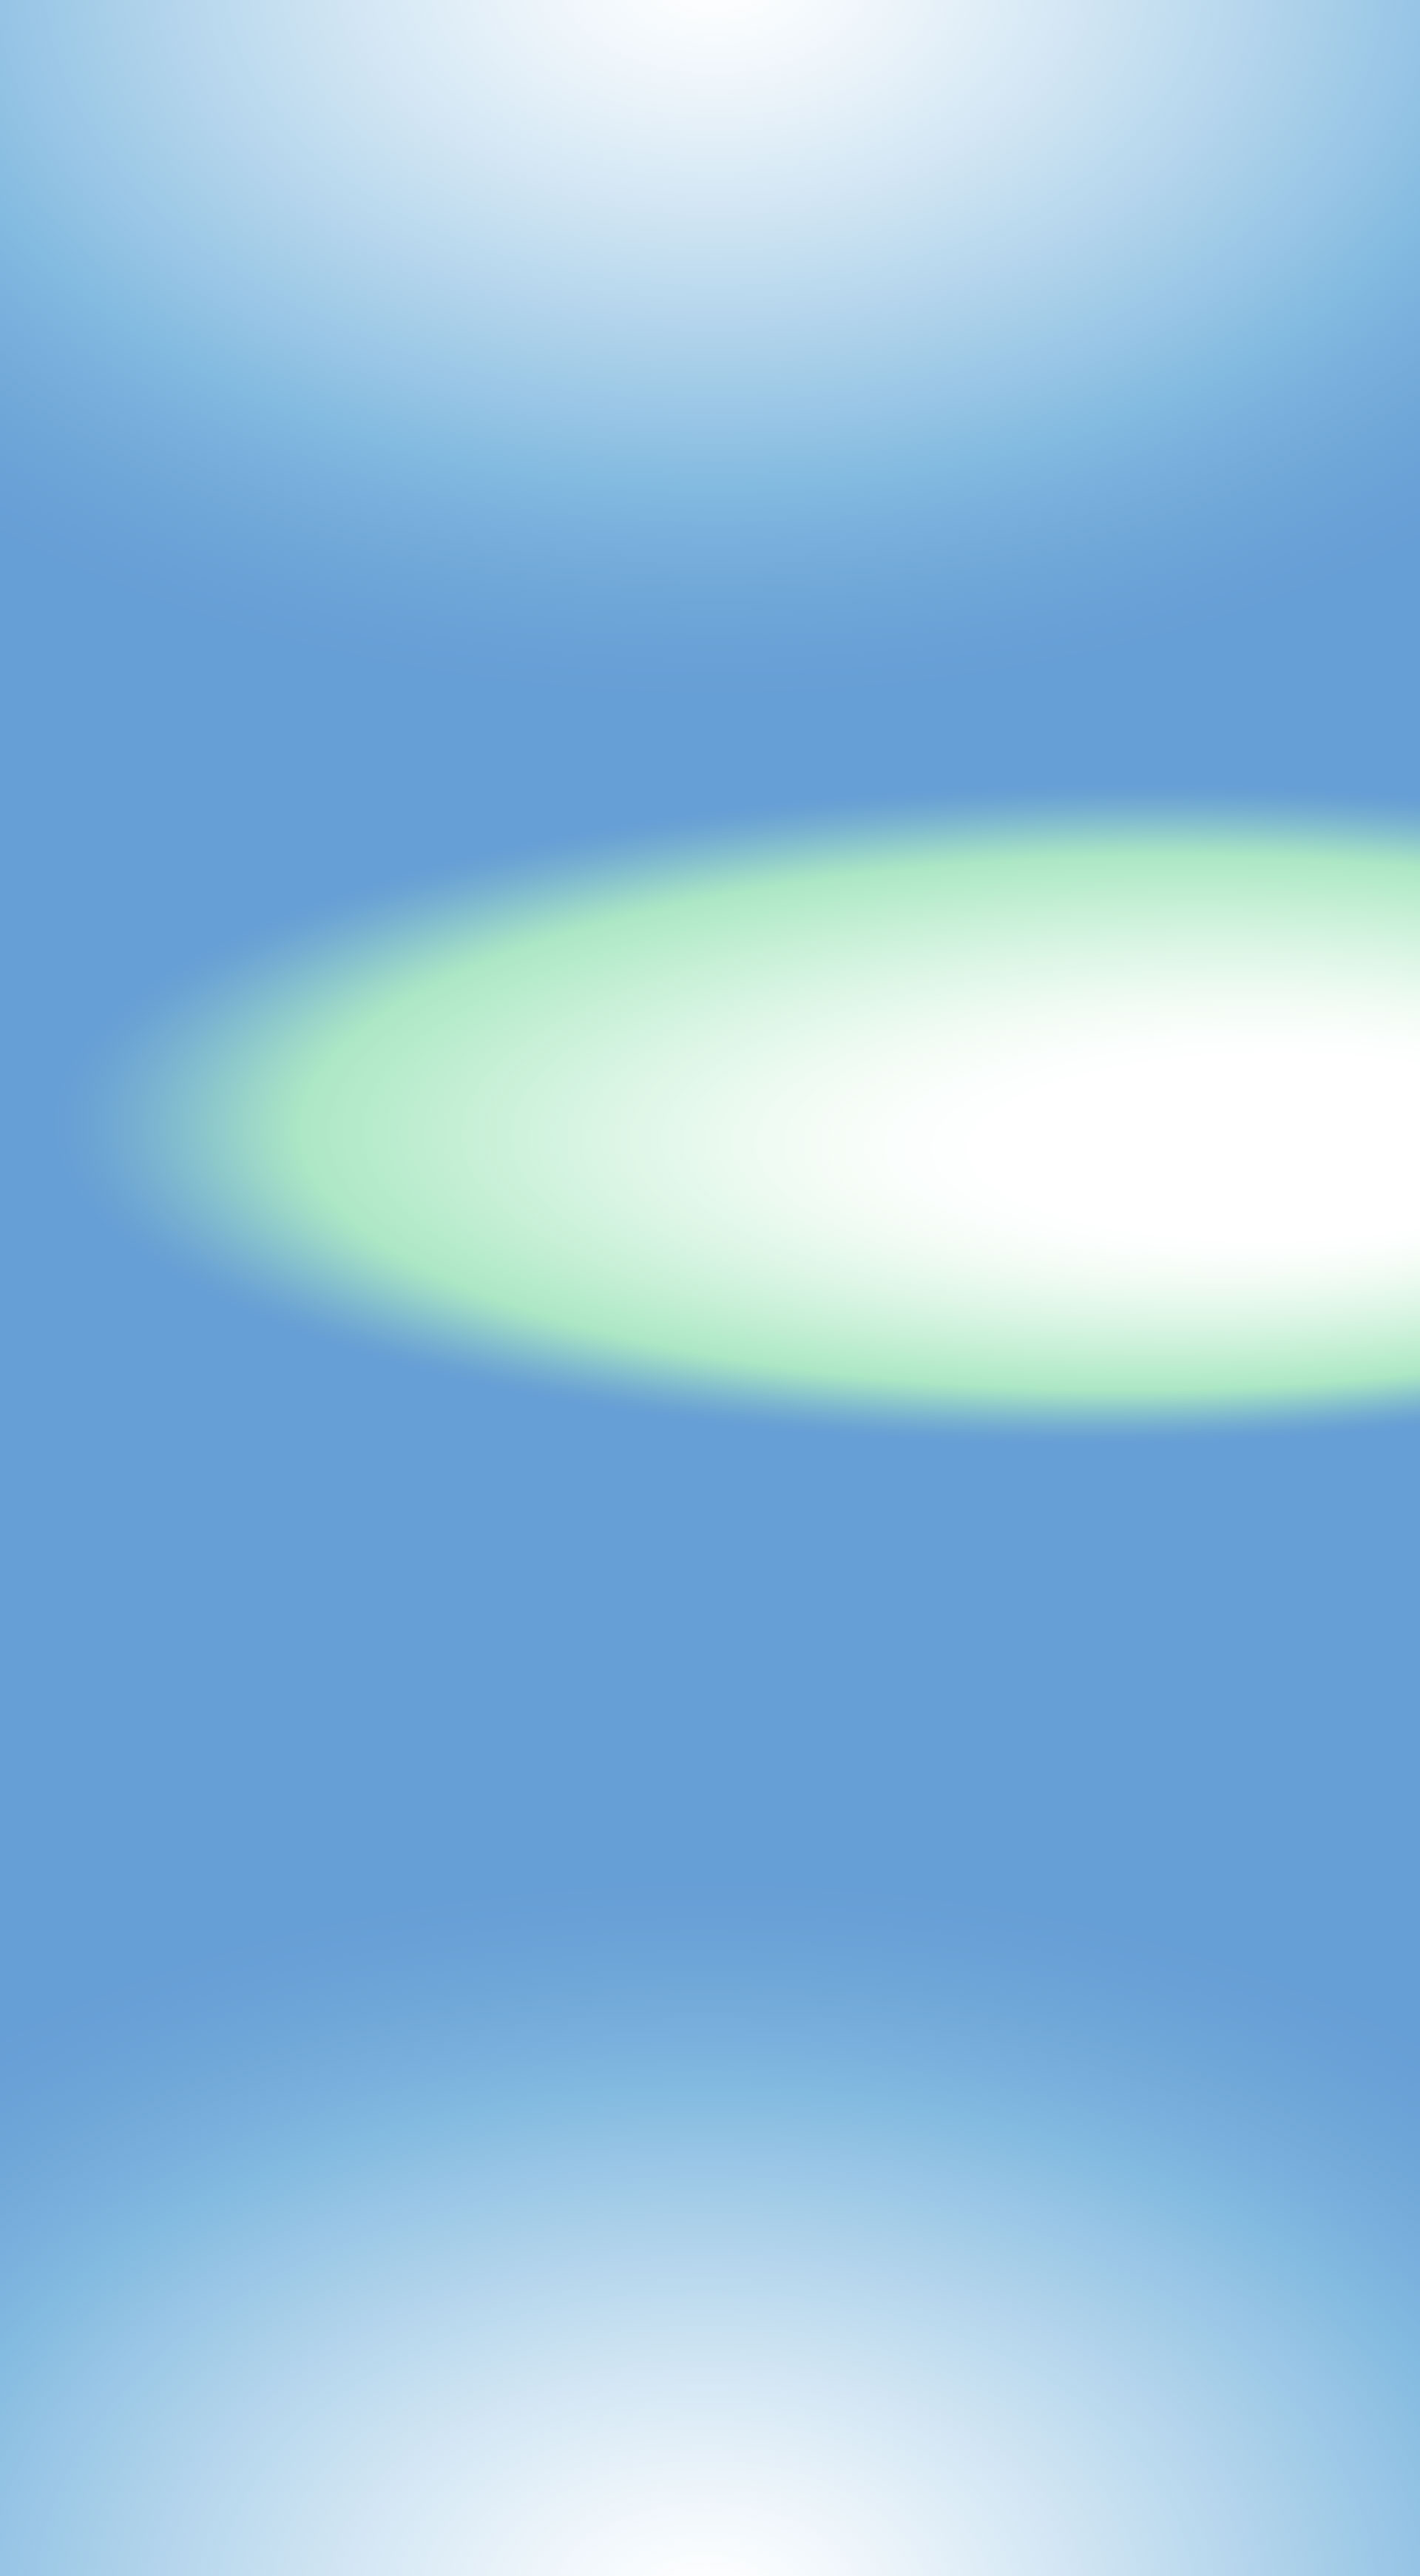
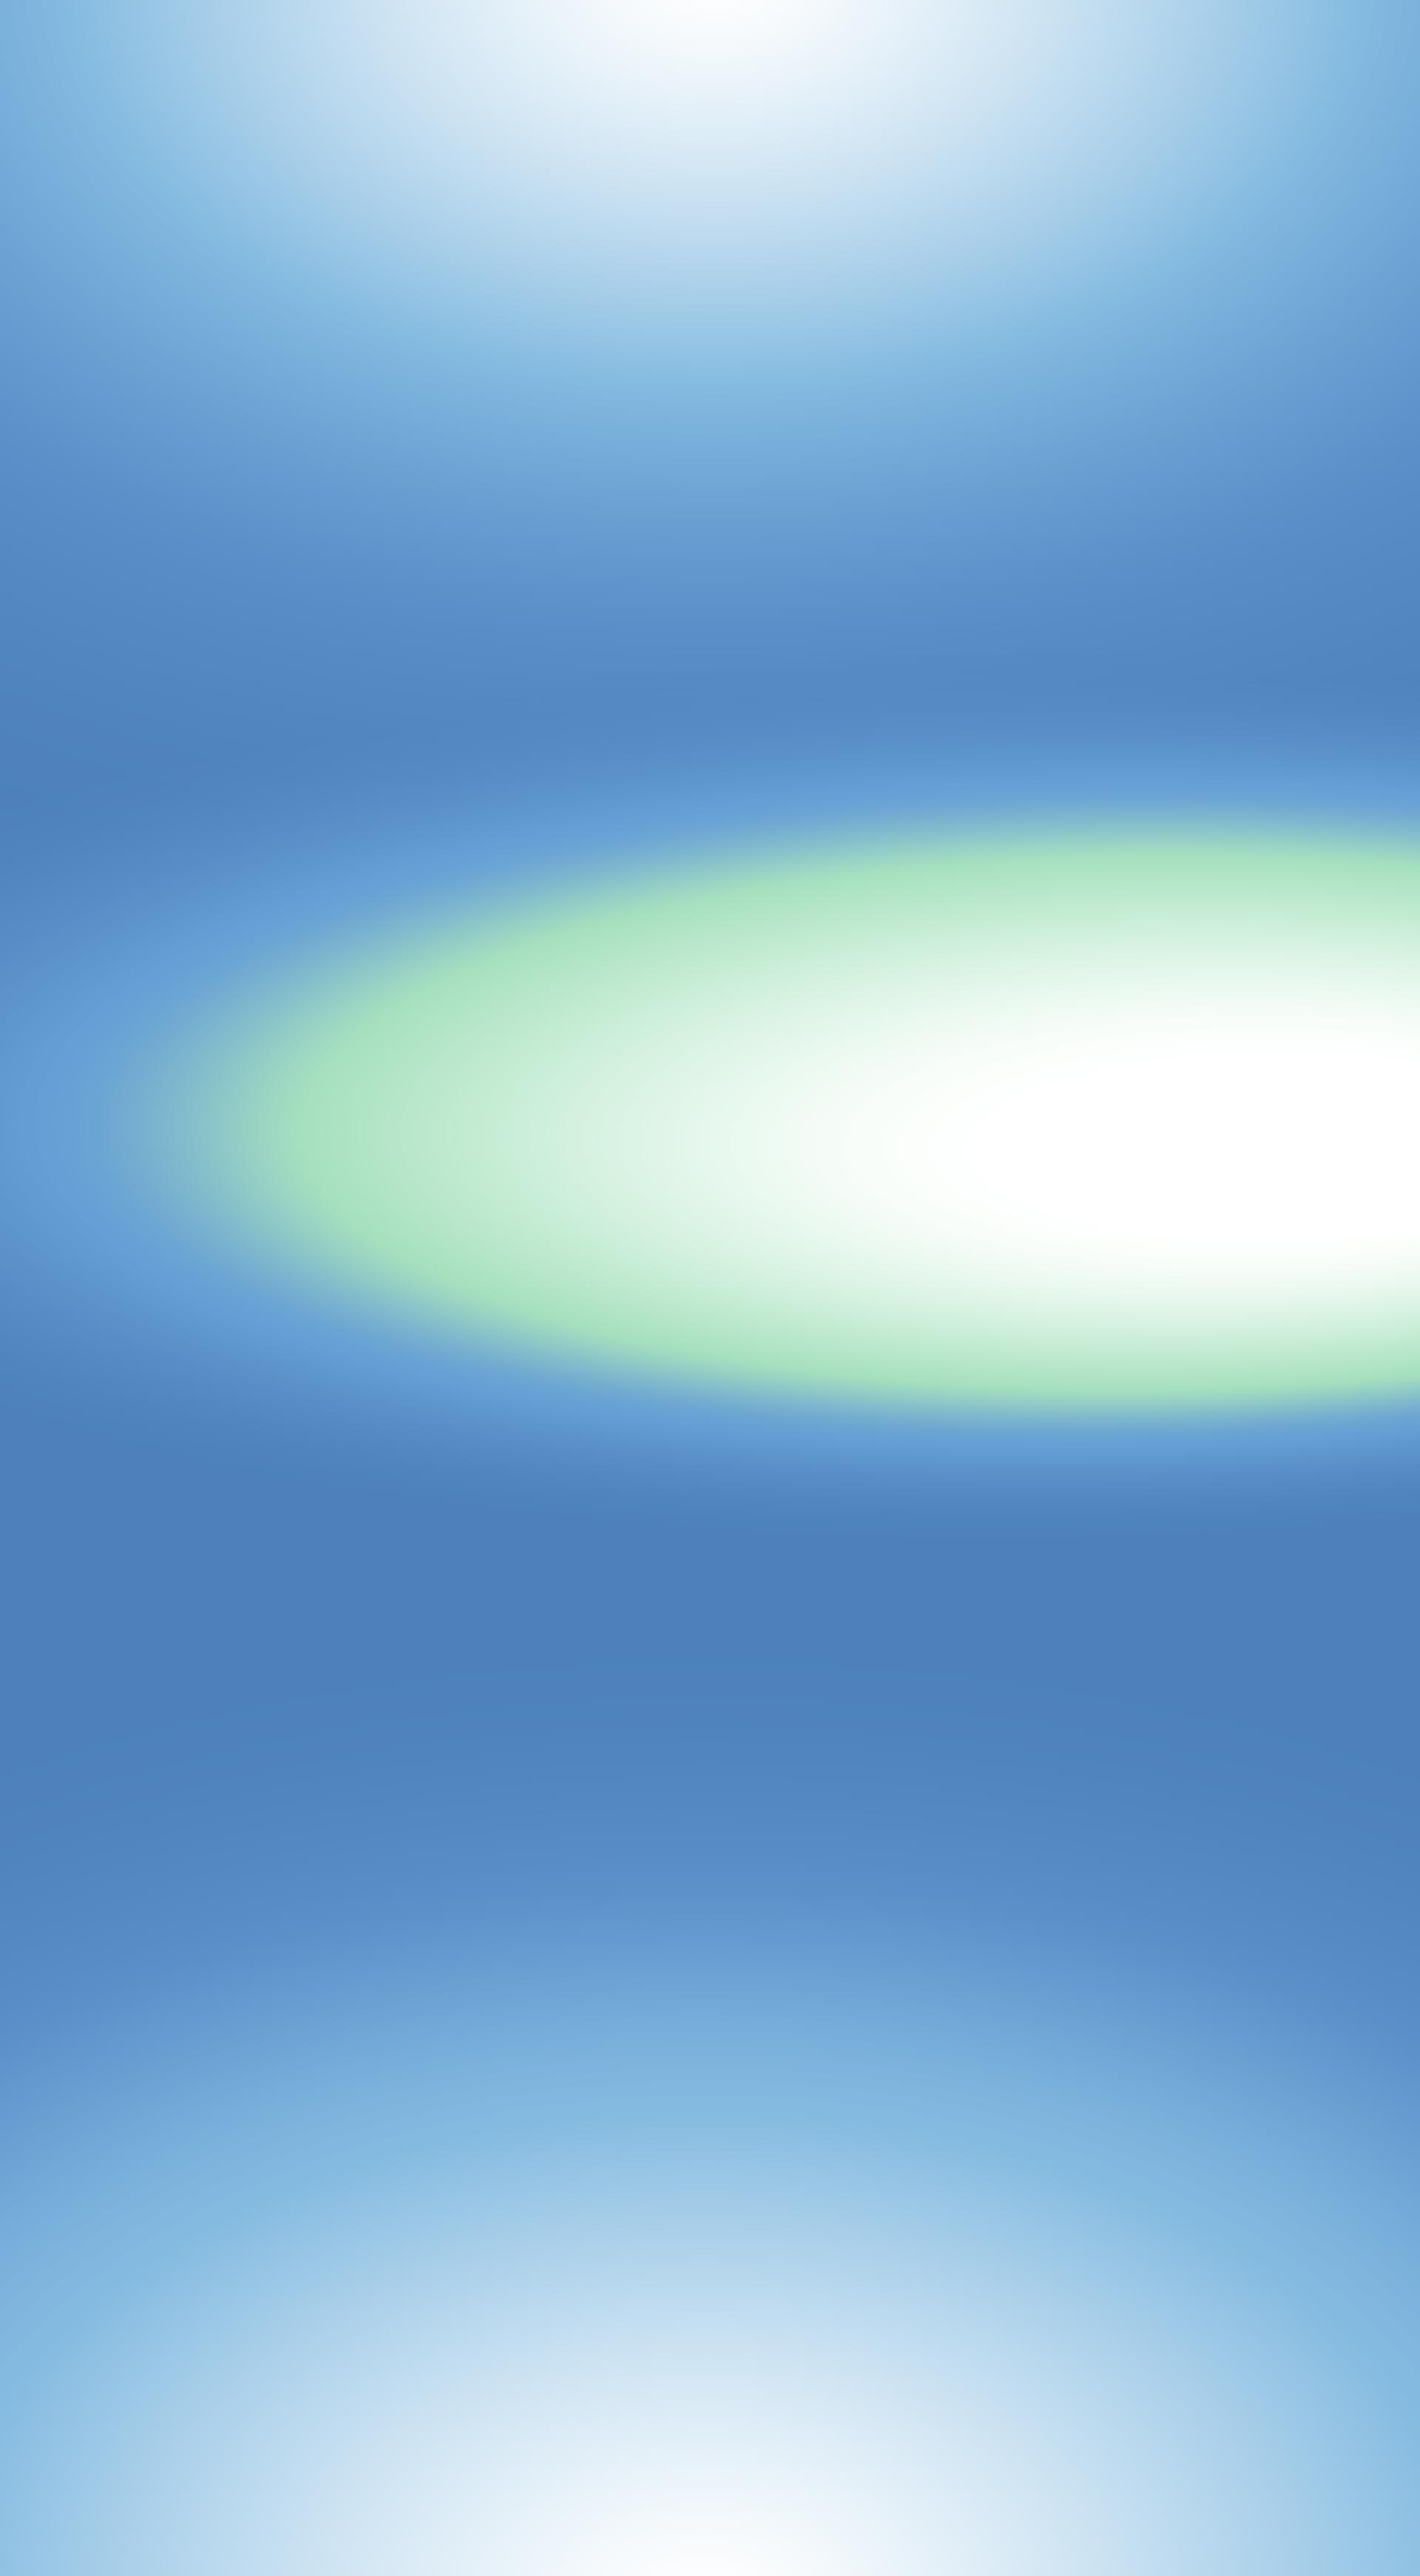
bg update

diff --git a/index.html b/index.html
@@ -21,7 +21,7 @@ title: Spencer M's Portfolio
       <defs>
         <path id="circle-path" d="M 150,150 m -100,0 a 100,100 0 1,1 200,0 a 100,100 0 1,1 -200,0" />
       </defs>
-      <text font-family="clubbed to life" font-size="15.8" fill="white" letter-spacing="1">
+      <text class="orbit-text">
         <textPath href="#circle-path">
           bringing wonder to the world ✦ designing the future ✦ shaping everyday experiences ✦
         </textPath>
@@ -45,7 +45,7 @@ title: Spencer M's Portfolio
 
 
     <!-- 1 / my digital home -->
-  <div class="project-slide active" data-bg="/main_assets/bg-miku.jpg" data-index="0">
+  <div class="project-slide active" data-bg="/main_assets/bg-pink.jpg" data-index="0">
     <div class="project-layout">
       <div class="project-info">
         <h2 class="project-title">my digital home</h2>
@@ -156,7 +156,7 @@ title: Spencer M's Portfolio
         </div>
       </div>
       <div class="project-image">
-        <a href="/projects/IO/"><img src="/projects/this-website/content/cover-t.png"></a>
+        <a href="/projects/this-website/"><img src="/projects/this-website/content/cover-t.png"></a>
       </div>
     </div>
     <div class="project-footer">

diff --git a/stylesheet.css b/stylesheet.css
@@ -192,6 +192,13 @@ html, body {
   object-fit: contain;
 }
 
+.orbit-text {
+  font-family: "clubbed to life";
+  font-size: 1.02rem;
+  fill: white;
+  letter-spacing: .05rem;
+}
+
 @keyframes spin {
   from { transform: rotate(0deg); }
   to { transform: rotate(-360deg); }
